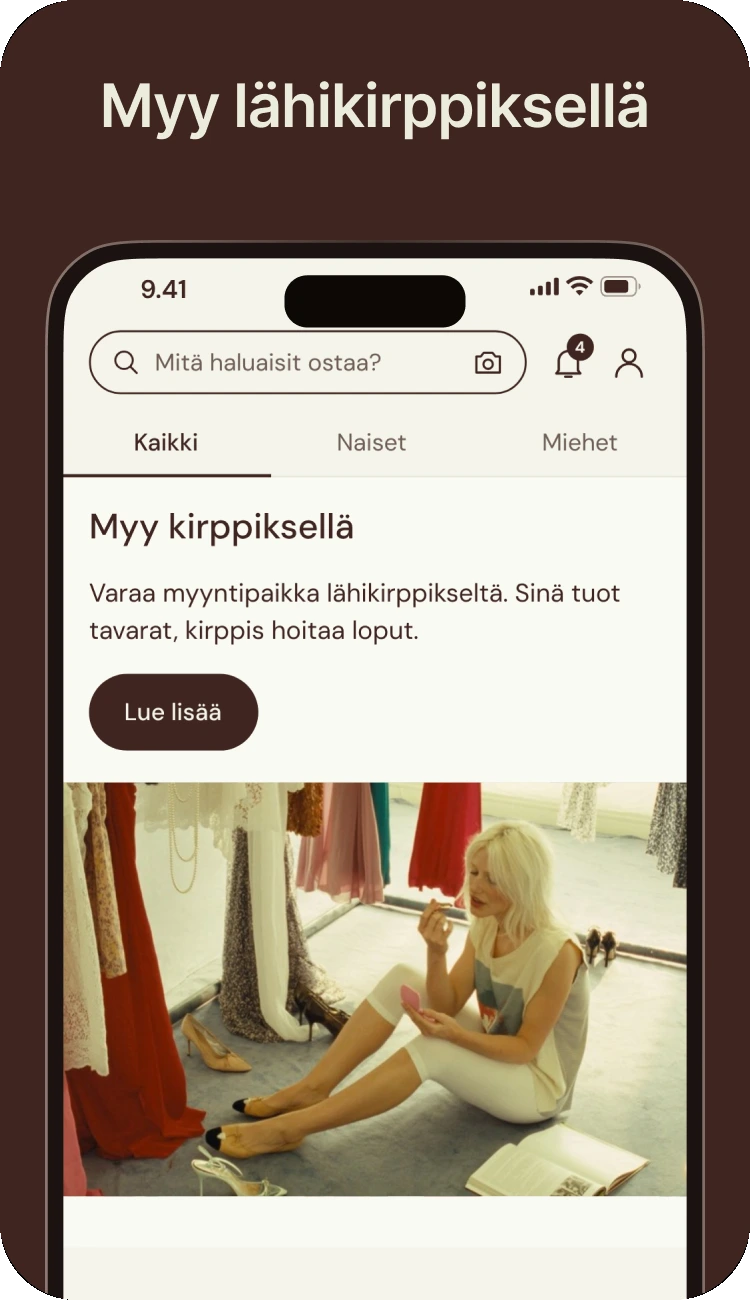
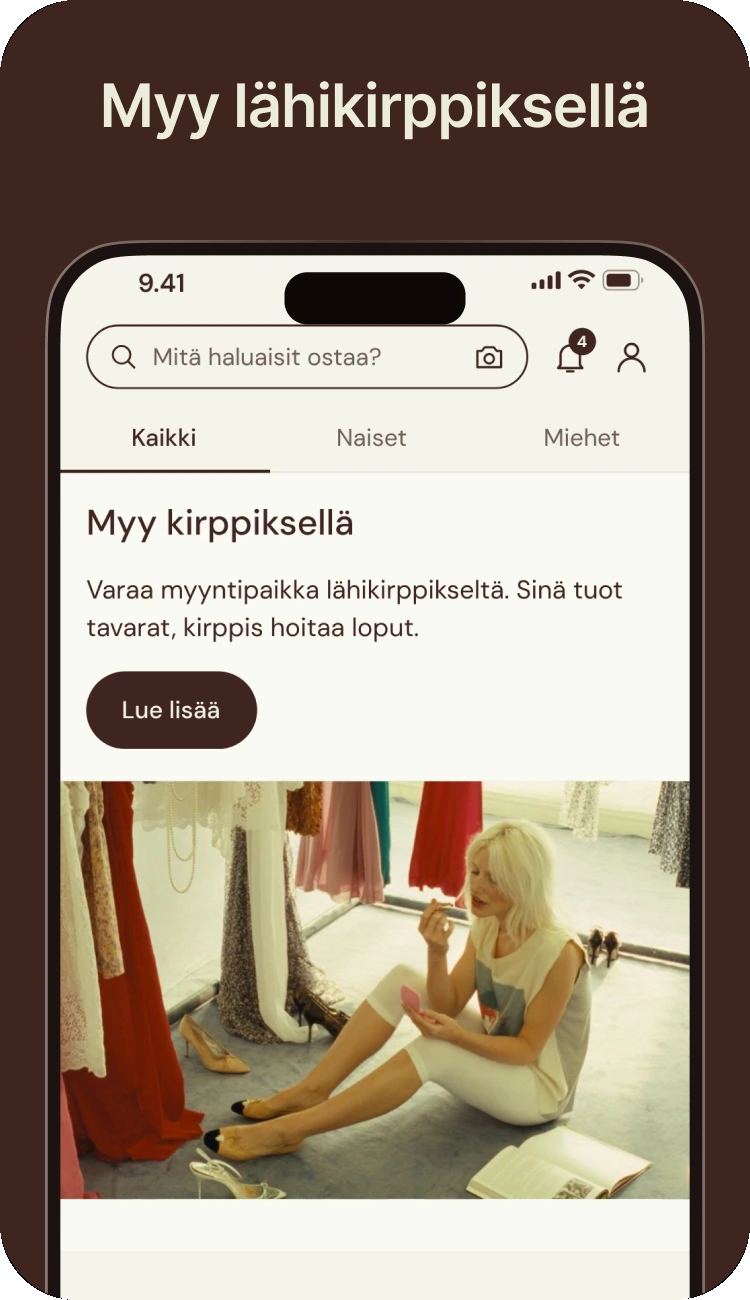
Mockupit: tabletin reuna paksummaksi, puhelimen reuna ohuemmaksi (desktop, mobiili, Figma)
Claude-Session: https://claude.ai/code/session_01GFdz22wxCZYfy3LenkEfZr

diff --git a/resella.html b/resella.html
@@ -338,11 +338,11 @@ section[id]{scroll-margin-top:72px}
 .ap-grid.on .ap-card:nth-child(2){transition-delay:.08s}.ap-grid.on .ap-card:nth-child(3){transition-delay:.16s}
 .ap-card h3{position:relative;z-index:2;font-family:var(--fd);font-weight:600;font-size:clamp(18px,1.75vw,25px);letter-spacing:-.015em;line-height:1.18;margin:0;padding:clamp(26px,3vw,44px) clamp(22px,2.6vw,40px) 0;max-width:20ch}
 .ap-card.bot h3,.ap-card.photo h3{margin-top:auto;padding:0 clamp(22px,2.6vw,40px) clamp(26px,3vw,44px)}
-.ap-phone{position:absolute;left:50%;width:78%;transform:translateX(-50%);background:#1C1310;border-radius:14.4%/7%;padding:2.8%;box-shadow:inset 0 0 0 1.5px rgba(140,120,112,.6);z-index:1}
+.ap-phone{position:absolute;left:50%;width:78%;transform:translateX(-50%);background:#1C1310;border-radius:13.9%/6.8%;padding:2.3%;box-shadow:inset 0 0 0 1.5px rgba(140,120,112,.6);z-index:1}
 .ap-card.top .ap-phone{top:26%}
 .ap-card.bot .ap-phone{bottom:27%}
 .ap-phone img{display:block;width:100%;height:auto;border-radius:12.3%/5.8%}
-.ap-isl{position:absolute;top:2.6%;left:50%;width:27.4%;aspect-ratio:120/35;transform:translateX(-50%);background:#0D0806;border-radius:999px;z-index:2}
+.ap-isl{position:absolute;top:2.4%;left:50%;width:27.4%;aspect-ratio:120/35;transform:translateX(-50%);background:#0D0806;border-radius:999px;z-index:2}
 .ap-rc{position:absolute;left:9%;right:9%;top:42%;background:var(--bg);border-radius:20px;padding:clamp(16px,1.6vw,24px);display:flex;flex-direction:column;gap:clamp(8px,.8vw,12px);font-size:clamp(13px,1.05vw,15px);text-align:left}
 .ap-rc-top,.ap-rc-row,.ap-rc-tot{display:flex;justify-content:space-between;gap:12px}
 .ap-rc-top{font-size:clamp(15px,1.25vw,18px);padding-bottom:clamp(8px,.8vw,12px);border-bottom:1px solid var(--line)}.ap-rc-top span{color:var(--ink-muted)}
@@ -356,8 +356,8 @@ section[id]{scroll-margin-top:72px}
 .ap-dg{position:absolute;inset:0;opacity:0;transition:opacity .6s var(--ease-std)}
 .ap-dg.on{opacity:1}
 .ap-t{position:absolute;height:auto;max-width:none;object-fit:contain;user-select:none}
-.ap-web{position:absolute;left:-20.5%;top:10.4%;width:117%;border:clamp(4px,.45vw,6px) solid #2A1814;border-radius:clamp(10px,1vw,14px);overflow:hidden;background:#F4F4EA;z-index:1}
-.ap-web img{display:block;width:100%;height:auto}
+.ap-web{position:absolute;left:-20.5%;top:10.4%;width:117%;padding:2.9%;border-radius:4.6%/6.8%;overflow:hidden;background:#1C1310;box-shadow:inset 0 0 0 1.5px rgba(140,120,112,.6);z-index:1}
+.ap-web img{display:block;width:100%;height:auto;border-radius:2%/3%}
 @media(max-width:820px){.ap-deco{display:none}.ap-web{left:-8%;width:116%;top:12%}}
 .ap-dots{display:flex;justify-content:center;gap:8px;margin-top:clamp(20px,2vw,28px)}
 .ap-dots i{width:8px;height:8px;border-radius:99px;background:var(--line);transition:width .4s var(--ease-std),background-color .4s var(--ease-std)}
@@ -1136,11 +1136,11 @@ section.fd{background:var(--blue)}
 <section class="m-sec m-sec--flush" id="m-vaihto">
   <div class="m-car m-car--slides" data-car>
     <figure class="m-sl"><img src="assets/m/sl1.webp?v=2" alt=""><div class="m-sl-top"><h3 class="m-sl-h">Helpotusta vaihtoon</h3><p>Vaihto hoituu ilman, että kirppis menee kiinni.</p></div><figcaption><h3>Esittely</h3><p>Aloitetaan 30 minuutin demolla, jossa näet oman kirppiksesi Resellassa.</p></figcaption></figure>
-    <figure class="m-sl m-sl--light" style="background:#C5D0D3"><img src="assets/m/sb2.webp?v=1" alt="" loading="lazy"><figcaption><h3>Määritys</h3><p>Rakennamme järjestelmän kirppiksesi näköiseksi: pöydät, hinnat, provisio ja oma ilme.</p></figcaption></figure>
+    <figure class="m-sl m-sl--light" style="background:#C5D0D3"><img src="assets/m/sb2.webp?v=2" alt="" loading="lazy"><figcaption><h3>Määritys</h3><p>Rakennamme järjestelmän kirppiksesi näköiseksi: pöydät, hinnat, provisio ja oma ilme.</p></figcaption></figure>
     <figure class="m-sl"><img src="assets/m/sl3.webp?v=1" alt="" loading="lazy"><figcaption><h3>Asennus</h3><p>Tuomme kassan ja laitteet paikan päälle ja asennamme ne valmiiksi.</p></figcaption></figure>
     <figure class="m-sl m-sl--vid"><div class="m-pad"><div class="m-scr"><img src="assets/m/koulutus-ss.webp?v=1" alt="Opetusvideo: kassan käyttö" loading="lazy"></div><div class="m-pl"><div class="m-pl-b"><span class="m-pl-i" aria-hidden="true"></span><span class="m-pl-bar"><i style="width:38%"></i></span><span class="m-pl-time">0:08</span></div></div></div><figcaption><h3>Koulutus</h3><p>Käymme kassan läpi sinun ja henkilökuntasi kanssa.</p></figcaption></figure>
     <figure class="m-sl"><img src="assets/m/sl5.webp?v=1" alt="" loading="lazy"><figcaption><h3>Ensimmäinen myynti</h3><p>Olemme paikalla, kun ensimmäiset tuotteet myydään. Et jää yksin.</p></figcaption></figure>
-    <figure class="m-sl m-sl--light" style="background:#E1E2CD"><img src="assets/m/sb6.webp?v=1" alt="" loading="lazy"><figcaption><h3>Tilitykset</h3><p>Käymme ensimmäiset tilitykset läpi yhdessä.</p></figcaption></figure>
+    <figure class="m-sl m-sl--light" style="background:#E1E2CD"><img src="assets/m/sb6.webp?v=2" alt="" loading="lazy"><figcaption><h3>Tilitykset</h3><p>Käymme ensimmäiset tilitykset läpi yhdessä.</p></figcaption></figure>
   </div>
 </section>
 
@@ -1184,13 +1184,13 @@ section.fd{background:var(--blue)}
     <button role="tab" aria-selected="true" data-tab="0">Myyjä</button><button role="tab" aria-selected="false" data-tab="1">Ostaja</button><button role="tab" aria-selected="false" data-tab="2">Kaikki hyötyvät</button>
   </div>
   <div class="m-car m-car--app on" data-car data-set="0">
-    <img src="assets/m/a1_1.webp?v=8" alt="Varaa paikka puhelimella" loading="lazy"><img src="assets/m/a1_2.webp?v=8" alt="Kuvaa tuote, saat hintaehdotuksen" loading="lazy"><img src="assets/m/a1_3.webp?v=8" alt="Seuraa myyntiä ja tilityksiä" loading="lazy"><img src="assets/m/a1_4.webp?v=8" alt="Oma profiili ja varaukset" loading="lazy"><img src="assets/m/a1_5.webp?v=8" alt="Saldo näkyy heti" loading="lazy"><img src="assets/m/a1_6.webp?v=8" alt="Myy lähikirppiksellä" loading="lazy">
+    <img src="assets/m/a1_1.webp?v=9" alt="Varaa paikka puhelimella" loading="lazy"><img src="assets/m/a1_2.webp?v=9" alt="Kuvaa tuote, saat hintaehdotuksen" loading="lazy"><img src="assets/m/a1_3.webp?v=9" alt="Seuraa myyntiä ja tilityksiä" loading="lazy"><img src="assets/m/a1_4.webp?v=9" alt="Oma profiili ja varaukset" loading="lazy"><img src="assets/m/a1_5.webp?v=9" alt="Saldo näkyy heti" loading="lazy"><img src="assets/m/a1_6.webp?v=9" alt="Myy lähikirppiksellä" loading="lazy">
   </div>
   <div class="m-car m-car--app" data-car data-set="1" hidden>
-    <img src="assets/m/a2_1.webp?v=8" alt="Uudet löydöt joka päivä" loading="lazy"><img src="assets/m/a2_2.webp?v=8" alt="Hae läheltä ja kauempaa" loading="lazy"><img src="assets/m/a2_3.webp?v=8" alt="Varaa ja nouda kirppikseltä" loading="lazy"><img src="assets/m/a2_4.webp?v=8" alt="Hae kuvalla" loading="lazy"><img src="assets/m/a2_5.webp?v=8" alt="Asuideat kirppislöydöistä" loading="lazy"><img src="assets/m/a2_6.webp?v=8" alt="Kauden löydöt koottuna" loading="lazy"><img src="assets/m/a2_7.webp?v=8" alt="Ilmoitus uusista osumista" loading="lazy">
+    <img src="assets/m/a2_1.webp?v=9" alt="Uudet löydöt joka päivä" loading="lazy"><img src="assets/m/a2_2.webp?v=9" alt="Hae läheltä ja kauempaa" loading="lazy"><img src="assets/m/a2_3.webp?v=9" alt="Varaa ja nouda kirppikseltä" loading="lazy"><img src="assets/m/a2_4.webp?v=9" alt="Hae kuvalla" loading="lazy"><img src="assets/m/a2_5.webp?v=9" alt="Asuideat kirppislöydöistä" loading="lazy"><img src="assets/m/a2_6.webp?v=9" alt="Kauden löydöt koottuna" loading="lazy"><img src="assets/m/a2_7.webp?v=9" alt="Ilmoitus uusista osumista" loading="lazy">
   </div>
   <div class="m-car m-car--app" data-car data-set="2" hidden>
-    <img src="assets/m/a3_1.webp?v=8" alt="Myyjä saa rahat tilille" loading="lazy"><img src="assets/m/a3_2.webp?v=8" alt="Ostaja löytää uniikin tuotteen" loading="lazy"><img src="assets/m/a3_3.webp?v=8" alt="Kirppis saa provision" loading="lazy"><img src="assets/m/a3_4.webp?v=8" alt="Hae, varaa ja nouda" loading="lazy"><img src="assets/m/a3_5.webp?v=8" alt="Kaikki hyllyt yhdessä" loading="lazy"><img src="assets/m/a3_6.webp?v=8" alt="Suosikit talteen" loading="lazy">
+    <img src="assets/m/a3_1.webp?v=9" alt="Myyjä saa rahat tilille" loading="lazy"><img src="assets/m/a3_2.webp?v=9" alt="Ostaja löytää uniikin tuotteen" loading="lazy"><img src="assets/m/a3_3.webp?v=9" alt="Kirppis saa provision" loading="lazy"><img src="assets/m/a3_4.webp?v=9" alt="Hae, varaa ja nouda" loading="lazy"><img src="assets/m/a3_5.webp?v=9" alt="Kaikki hyllyt yhdessä" loading="lazy"><img src="assets/m/a3_6.webp?v=9" alt="Suosikit talteen" loading="lazy">
   </div>
 </section>
 
